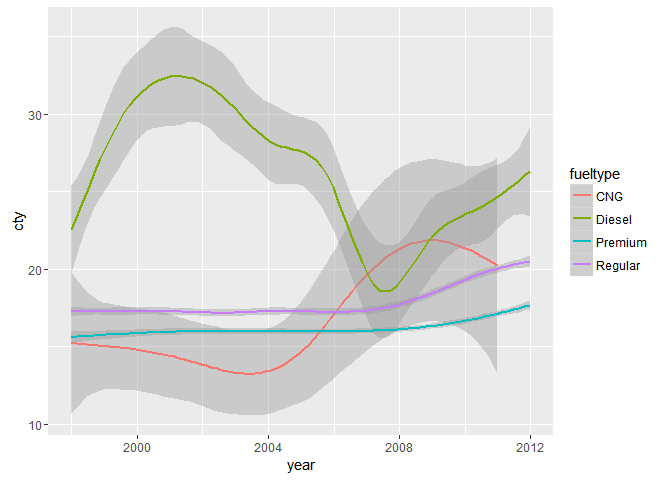
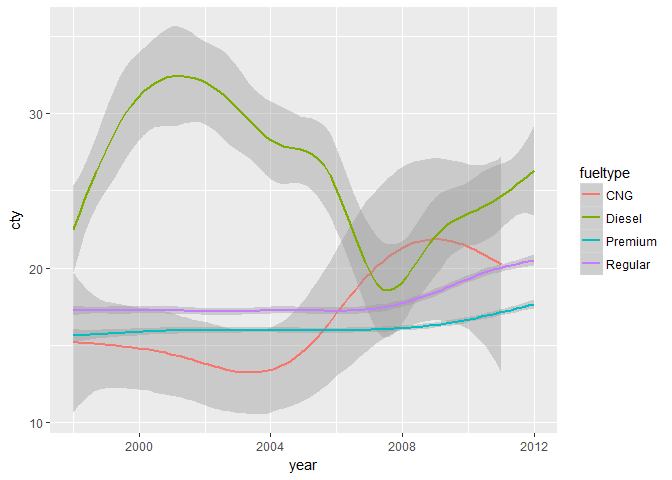
Correct title for lectures 7, 8, 9

diff --git a/09_hadley_stat405_rice.md b/09_hadley_stat405_rice.md
@@ -1,7 +1,7 @@
-Lecture 9 for Hadley Wickham's STAT 405 at Rice U. Functions $ for loops
+Lecture 9: Functions & for loops
 ================
 Mark Blackmore
-2017-10-01
+2017-11-20
 
 Slots Strategy
 --------------
@@ -169,7 +169,7 @@ x <- runif(100)
 var(x)
 ```
 
-    ## [1] 0.0816041
+    ## [1] 0.09735204
 
 Steps
 
@@ -179,75 +179,75 @@ xbar <- mean(x)
 x - xbar
 ```
 
-    ##   [1]  0.308650967 -0.273855693  0.445645373  0.364867206 -0.012850539
-    ##   [6]  0.418251098 -0.357818443  0.017537387 -0.086007136 -0.435363801
-    ##  [11] -0.447163157 -0.089997509 -0.107443747  0.352539448 -0.302367206
-    ##  [16] -0.169259645  0.127742644  0.277518482  0.221543024 -0.385299693
-    ##  [21] -0.319835878  0.240685663  0.393880533  0.482763228  0.235257050
-    ##  [26] -0.021335111  0.321059492  0.389371629  0.419831526 -0.452746406
-    ##  [31]  0.276617731  0.031471758 -0.237906388 -0.372470366 -0.293763387
-    ##  [36] -0.457596003 -0.197634567  0.069536449  0.257166741  0.219551739
-    ##  [41]  0.408472775 -0.332913551  0.106770557 -0.222184579  0.288315984
-    ##  [46] -0.443055902  0.080822464 -0.317465547 -0.289418356  0.213885605
-    ##  [51]  0.213555646 -0.208031601  0.239231461 -0.322568720 -0.262138330
-    ##  [56] -0.434126161 -0.138002703  0.369032110  0.118198080  0.077058805
-    ##  [61]  0.107597449  0.086423252 -0.005455928  0.069432959 -0.297295301
-    ##  [66] -0.184670747 -0.235390115  0.136165393  0.349262042  0.069272222
-    ##  [71] -0.002693819  0.220233720  0.133335626 -0.105921472 -0.073926420
-    ##  [76] -0.004176066  0.438703175 -0.116682261  0.456187427  0.448379839
-    ##  [81] -0.181890684 -0.170899365 -0.268899180  0.016530177 -0.418856358
-    ##  [86]  0.020962303 -0.255308790 -0.258594505  0.314138287  0.463684675
-    ##  [91] -0.280528630 -0.355586615  0.373112838 -0.297956421 -0.068421861
-    ##  [96] -0.418915858  0.421909545  0.318613319 -0.335004836 -0.103081542
+    ##   [1]  0.05819820 -0.08735305 -0.32111010  0.18490020 -0.01160699
+    ##   [6] -0.24366964  0.44364228 -0.32491030 -0.30253810  0.07407932
+    ##  [11] -0.40916057  0.44302498 -0.25355838 -0.18585736 -0.46832228
+    ##  [16]  0.20618635  0.39587764  0.18672035 -0.05375903  0.41848124
+    ##  [21]  0.06066142  0.29827430  0.21985009 -0.04496081  0.01657525
+    ##  [26] -0.27133783  0.01859336 -0.46192350 -0.46848861 -0.20685653
+    ##  [31]  0.22184269  0.02251898  0.12111164  0.13894258 -0.23985554
+    ##  [36]  0.34497456  0.26732813 -0.23486789  0.47047373 -0.33709897
+    ##  [41] -0.25861447 -0.09402579 -0.14708947  0.41886532  0.28763601
+    ##  [46] -0.22462200 -0.30730488  0.32580089  0.05941742  0.45736223
+    ##  [51]  0.47447957  0.37106426 -0.34532262  0.49115562  0.26864001
+    ##  [56] -0.46618422  0.39388460 -0.49291300  0.38907027  0.04477617
+    ##  [61]  0.19112743  0.08823230 -0.49182469  0.38138478  0.11449234
+    ##  [66]  0.11812143  0.45704279  0.38713035 -0.27773838  0.45429712
+    ##  [71] -0.07398589 -0.01283707 -0.45588351 -0.38811267  0.39511222
+    ##  [76]  0.40876899 -0.38137110 -0.44527687 -0.34664563 -0.27949518
+    ##  [81]  0.10216773  0.47949765 -0.14139086 -0.06030167  0.33614897
+    ##  [86] -0.37114148 -0.09999400  0.35169666 -0.06692359 -0.40029372
+    ##  [91] -0.35215360  0.16872909 -0.47853248 -0.24199240 -0.38261073
+    ##  [96] -0.19623775 -0.32788018  0.09780475  0.49554102 -0.08576995
 
 ``` r
 (x - xbar) ^ 2
 ```
 
-    ##   [1] 9.526542e-02 7.499694e-02 1.985998e-01 1.331281e-01 1.651364e-04
-    ##   [6] 1.749340e-01 1.280340e-01 3.075599e-04 7.397228e-03 1.895416e-01
-    ##  [11] 1.999549e-01 8.099552e-03 1.154416e-02 1.242841e-01 9.142593e-02
-    ##  [16] 2.864883e-02 1.631818e-02 7.701651e-02 4.908131e-02 1.484559e-01
-    ##  [21] 1.022950e-01 5.792959e-02 1.551419e-01 2.330603e-01 5.534588e-02
-    ##  [26] 4.551870e-04 1.030792e-01 1.516103e-01 1.762585e-01 2.049793e-01
-    ##  [31] 7.651737e-02 9.904716e-04 5.659945e-02 1.387342e-01 8.629693e-02
-    ##  [36] 2.093941e-01 3.905942e-02 4.835318e-03 6.613473e-02 4.820297e-02
-    ##  [41] 1.668500e-01 1.108314e-01 1.139995e-02 4.936599e-02 8.312611e-02
-    ##  [46] 1.962985e-01 6.532271e-03 1.007844e-01 8.376299e-02 4.574705e-02
-    ##  [51] 4.560601e-02 4.327715e-02 5.723169e-02 1.040506e-01 6.871650e-02
-    ##  [56] 1.884655e-01 1.904475e-02 1.361847e-01 1.397079e-02 5.938059e-03
-    ##  [61] 1.157721e-02 7.468979e-03 2.976715e-05 4.820936e-03 8.838450e-02
-    ##  [66] 3.410328e-02 5.540851e-02 1.854101e-02 1.219840e-01 4.798641e-03
-    ##  [71] 7.256661e-06 4.850289e-02 1.777839e-02 1.121936e-02 5.465116e-03
-    ##  [76] 1.743952e-05 1.924605e-01 1.361475e-02 2.081070e-01 2.010445e-01
-    ##  [81] 3.308422e-02 2.920659e-02 7.230677e-02 2.732467e-04 1.754406e-01
-    ##  [86] 4.394182e-04 6.518258e-02 6.687112e-02 9.868286e-02 2.150035e-01
-    ##  [91] 7.869631e-02 1.264418e-01 1.392132e-01 8.877803e-02 4.681551e-03
-    ##  [96] 1.754905e-01 1.780077e-01 1.015144e-01 1.122282e-01 1.062580e-02
+    ##   [1] 0.0033870306 0.0076305561 0.1031116964 0.0341880844 0.0001347222
+    ##   [6] 0.0593748953 0.1968184760 0.1055666999 0.0915293003 0.0054877453
+    ##  [11] 0.1674123697 0.1962711352 0.0642918506 0.0345429583 0.2193257591
+    ##  [16] 0.0425128124 0.1567191030 0.0348644872 0.0028900333 0.1751265516
+    ##  [21] 0.0036798076 0.0889675567 0.0483340635 0.0020214745 0.0002747389
+    ##  [26] 0.0736242198 0.0003457131 0.2133733177 0.2194815745 0.0427896235
+    ##  [31] 0.0492141776 0.0005071044 0.0146680305 0.0193050415 0.0575306809
+    ##  [36] 0.1190074439 0.0714643308 0.0551629239 0.2213455327 0.1136357187
+    ##  [41] 0.0668814430 0.0088408490 0.0216353126 0.1754481525 0.0827344760
+    ##  [46] 0.0504550442 0.0944362902 0.1061462200 0.0035304303 0.2091802135
+    ##  [51] 0.2251308589 0.1376886871 0.1192477093 0.2412338479 0.0721674538
+    ##  [56] 0.2173277233 0.1551450805 0.2429632207 0.1513756712 0.0020049055
+    ##  [61] 0.0365296961 0.0077849380 0.2418915291 0.1454543538 0.0131084955
+    ##  [66] 0.0139526724 0.2088881132 0.1498699075 0.0771386080 0.2063858741
+    ##  [71] 0.0054739114 0.0001647903 0.2078297729 0.1506314433 0.1561136637
+    ##  [76] 0.1670920871 0.1454439181 0.1982714902 0.1201631918 0.0781175584
+    ##  [81] 0.0104382460 0.2299179975 0.0199913759 0.0036362908 0.1129961312
+    ##  [86] 0.1377460001 0.0099988003 0.1236905412 0.0044787672 0.1602350653
+    ##  [91] 0.1240121581 0.0284695062 0.2289933304 0.0585603210 0.1463909743
+    ##  [96] 0.0385092532 0.1075054113 0.0095657690 0.2455609059 0.0073564841
 
 ``` r
 sum(x - xbar) ^ 2
 ```
 
-    ## [1] 2.386304e-29
+    ## [1] 1.972152e-29
 
 ``` r
 sum((x - xbar) ^ 2)
 ```
 
-    ## [1] 8.078806
+    ## [1] 9.637852
 
 ``` r
 sum((x - xbar) ^ 2) / n - 1
 ```
 
-    ## [1] -0.9192119
+    ## [1] -0.9036215
 
 ``` r
 sum((x - xbar) ^ 2) / (n - 1) 
 ```
 
-    ## [1] 0.0816041
+    ## [1] 0.09735204
 
 Wrap it Up
 

diff --git a/07_hadley_stat405_rice.md b/07_hadley_stat405_rice.md
@@ -1,7 +1,7 @@
-Lecture 7 for Hadley Wickham's STAT 405 at Rice U. More About Data
+Lecture 7: More About Data
 ================
 Mark Blackmore
-2017-10-01
+2017-11-20
 
 ``` r
 library(ggplot2)
@@ -219,15 +219,15 @@ table(a); table(b); table(c)
 
     ## a
     ## 1 2 3 4 5 
-    ## 3 5 4 7 1
+    ## 5 3 4 4 4
 
     ## b
     ##  1  2  3  4  5  6  7  8  9 10 
-    ##  3  5  4  7  1  0  0  0  0  0
+    ##  5  3  4  4  4  0  0  0  0  0
 
     ## c
     ## a b c d e 
-    ## 3 5 4 7 1
+    ## 5 3 4 4 4
 
 ### Create factors on slots data
 
@@ -257,7 +257,7 @@ table(b2)
 
     ## b2
     ##  1  2  3  4  5  6  7  8  9 10 
-    ##  0  2  3  0  0  0  0  0  0  0
+    ##  1  1  1  2  0  0  0  0  0  0
 
 #### Remove extra levels
 
@@ -265,15 +265,15 @@ table(b2)
 b2[, drop = TRUE]
 ```
 
-    ## [1] 3 2 2 3 3
-    ## Levels: 2 3
+    ## [1] 4 2 1 3 4
+    ## Levels: 1 2 3 4
 
 ``` r
 factor(b2)
 ```
 
-    ## [1] 3 2 2 3 3
-    ## Levels: 2 3
+    ## [1] 4 2 1 3 4
+    ## Levels: 1 2 3 4
 
 #### But usually better to convert to character
 
@@ -284,15 +284,15 @@ table(b3)
 
     ## b3
     ## 1 2 3 4 5 
-    ## 3 5 4 7 1
+    ## 5 3 4 4 4
 
 ``` r
 table(b3[1:5])
 ```
 
     ## 
-    ## 2 3 
-    ## 2 3
+    ## 1 2 3 4 
+    ## 1 1 1 2
 
 ### Factors behave like integers when subsetting, not characters!
 
@@ -327,20 +327,20 @@ d <- factor(x, labels = 2^(1:5))
 as.numeric(d)
 ```
 
-    ##  [1] 3 5 3 4 4 5 4 3 3 5 1 5 5 1 3 5 2 1 1 5
+    ##  [1] 5 5 1 5 2 1 3 5 1 2 3 4 5 2 1 5 1 4 3 3
 
 ``` r
 as.character(d)
 ```
 
-    ##  [1] "8"  "32" "8"  "16" "16" "32" "16" "8"  "8"  "32" "2"  "32" "32" "2" 
-    ## [15] "8"  "32" "4"  "2"  "2"  "32"
+    ##  [1] "32" "32" "2"  "32" "4"  "2"  "8"  "32" "2"  "4"  "8"  "16" "32" "4" 
+    ## [15] "2"  "32" "2"  "16" "8"  "8"
 
 ``` r
 as.numeric(as.character(d))
 ```
 
-    ##  [1]  8 32  8 16 16 32 16  8  8 32  2 32 32  2  8 32  4  2  2 32
+    ##  [1] 32 32  2 32  4  2  8 32  2  4  8 16 32  4  2 32  2 16  8  8
 
 Saving Data
 -----------

diff --git a/08_hadley_stat405_rice.md b/08_hadley_stat405_rice.md
@@ -1,7 +1,7 @@
-Lecture 8 for Hadley Wickham's STAT 405 at Rice U. Problem Solving
+Lecture 8: Problem Solving
 ================
 Mark Blackmore
-2017-10-01
+2017-11-20
 
 Problem Solving
 ---------------
@@ -22,6 +22,8 @@ qplot(year, cty, data = recent, colour = fueltype,
       geom = "smooth")
 ```
 
+    ## `geom_smooth()` using method = 'gam'
+
 ![](08_hadley_stat405_rice_files/figure-markdown_github-ascii_identifiers/unnamed-chunk-2-1.png)
 
 ``` r
@@ -38,6 +40,8 @@ qplot(year, cty, data = recent, geom = "boxplot", group = year) +
   facet_wrap(~ fueltype) +
   geom_smooth(colour = "red")
 ```
+
+    ## `geom_smooth()` using method = 'loess'
 
 ![](08_hadley_stat405_rice_files/figure-markdown_github-ascii_identifiers/unnamed-chunk-3-1.png)
 

diff --git a/README.md b/README.md
@@ -7,9 +7,9 @@ This repository contains contains code and markdown documents prepared by workin
 [Lecture 4: Subsetting](04_hadley_stat405_rice.md)  
 [Lecture 5: Working directories, shortcuts and iteration](05_hadley_stat405_rice.md)  
 [Lecture 6: Statistical Reports](06_hadley_stat405_rice.md)  
-[Lecture 7](07_hadley_stat405_rice.md)  
-[Lecture 8](08_hadley_stat405_rice.md)  
-[Lecture 9](09_hadley_stat405_rice.md)  
+[Lecture 7: More About Data](07_hadley_stat405_rice.md)  
+[Lecture 8: Problem Solving](08_hadley_stat405_rice.md)  
+[Lecture 9: Functions & for loops](09_hadley_stat405_rice.md)  
 [Lecture 10](10_hadley_stat405_rice.md)  
 [Lecture 11](11_hadley_stat405_rice.md)  
 [Lecture 12](12_hadley_stat405_rice.md)  
